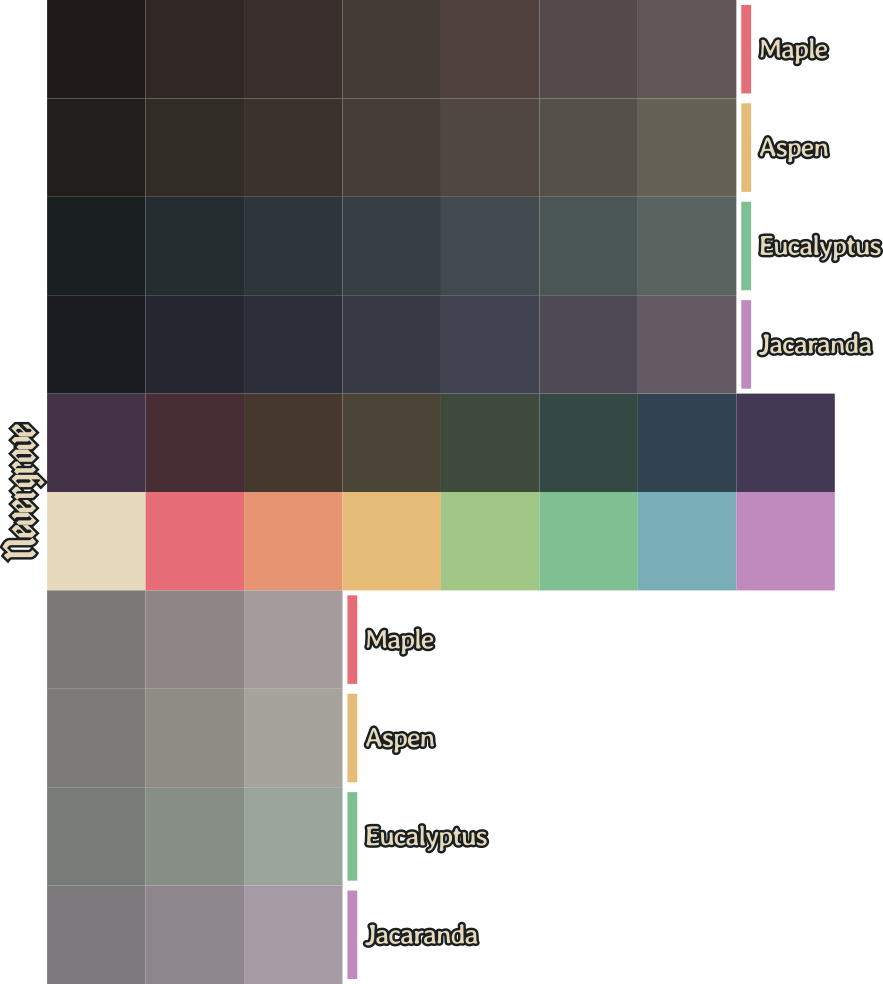
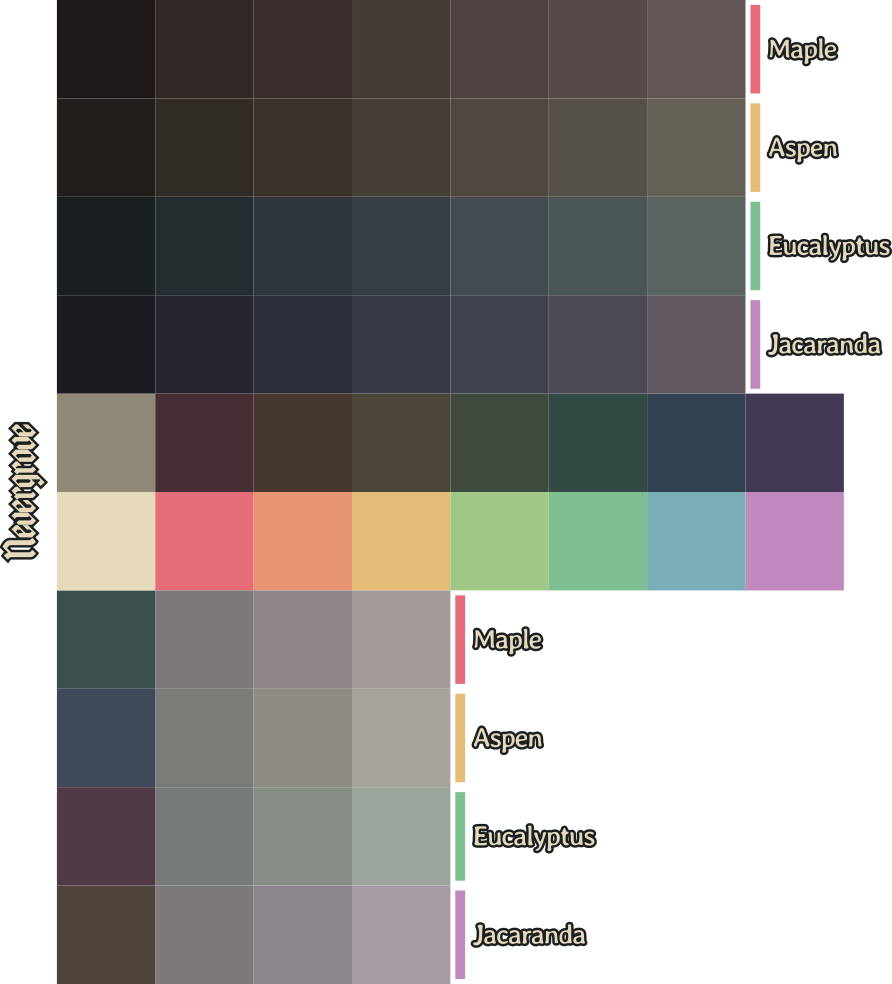
Variant visual selection colors and dimmed fg

diff --git a/index.html b/index.html
@@ -8,9 +8,10 @@
 				--bgR1: #312825;
 				--bgR2: #3a2e2c;
 				--bgR3: #443b36;
-				--bgR4: #50413f;
+				--bgR4: #4f4140;
 				--bgR5: #554949;
 				--bgR6: #625556;
+				--visR: #3b4f4d;
 				--grayR0: #7c7878;
 				--grayR1: #8e8686;
 				--grayR2: #a59b9b;
@@ -23,6 +24,7 @@
 				--bgY4: #4f4740;
 				--bgY5: #555149;
 				--bgY6: #666156;
+				--visY: #3f495a;
 				--grayY0: #7c7b78;
 				--grayY1: #8f8c85;
 				--grayY2: #a6a39a;
@@ -35,6 +37,7 @@
 				--bgT4: #414b50;
 				--bgT5: #4a5556;
 				--bgT6: #596460;
+				--visT: #503a46;
 				--grayT0: #787c78;
 				--grayT1: #868e86;
 				--grayT2: #9ba59c;
@@ -47,6 +50,7 @@
 				--bgP4: #414250;
 				--bgP5: #4d4a56;
 				--bgP6: #635963;
+				--visP: #4f443b;
 				--grayP0: #7c787c;
 				--grayP1: #8d868d;
 				--grayP2: #a59ba5;
@@ -58,6 +62,7 @@
 				--bg4: var(--bgT4);
 				--bg5: var(--bgT5);
 				--bg6: var(--bgT6);
+				--vis: var(--visT);
 				--gray0: var(--grayT0);
 				--gray1: var(--grayT1);
 				--gray2: var(--grayT2);
@@ -72,7 +77,7 @@
 				--teal: #7fc092;
 				--blue: #79adb7;
 				--purple: #c18abe;
-				--visual: #443346;
+				--fgDim: #918978;
 				--bgRed: #462e34;
 				--bgOrange: #46372f;
 				--bgYellow: #4b4537;
@@ -192,7 +197,7 @@
 			.telB { background-color: var(--bgTeal); }
 			.bluB { background-color: var(--bgBlue); }
 			.purB { background-color: var(--bgPurple); }
-			.visB { background-color: var(--visual); }
+			.visB { background-color: var(--vis); }
 			.b0 { background-color: var(--bg0); }
 			.b1 { background-color: var(--bg1); }
 			.b2 { background-color: var(--bg2); }
@@ -216,6 +221,23 @@
 				align-content: center;
 				text-align: center;
 			}
+
+			.exampleBtn {
+				height: fit-content;
+				border: 2px solid var(--bg4);
+
+				&.disabled {
+					background-color: var(--bg2);
+					border-color: var(--bg3);
+					color: var(--fgDim);
+				}
+
+				&.pressed {
+					background-color: var(--accent);
+					border-color: var(--bg6);
+					color: var(--bg0);
+				}
+			}
 		</style>
 
 		<script>
@@ -235,6 +257,7 @@
 				document.documentElement.style.setProperty("--bg4", `var(--bg${c}4)`);
 				document.documentElement.style.setProperty("--bg5", `var(--bg${c}5)`);
 				document.documentElement.style.setProperty("--bg6", `var(--bg${c}6)`);
+				document.documentElement.style.setProperty("--vis", `var(--vis${c})`);
 				document.documentElement.style.setProperty("--gray0", `var(--gray${c}0)`);
 				document.documentElement.style.setProperty("--gray1", `var(--gray${c}1)`);
 				document.documentElement.style.setProperty("--gray2", `var(--gray${c}2)`);
@@ -329,6 +352,11 @@
 					<p class="bluF bluB">BLUE</p>
 					<br>
 					<p class="purF purB">PURPLE</p>
+				</div>
+				<div>
+					<button class="exampleBtn disabled">Disabled button</button>
+					<button class="exampleBtn">Normal button</button>
+					<button class="exampleBtn pressed">Pressed button</button>
 				</div>
 			</div>
 			<br>
